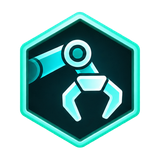
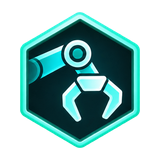
Add badges for line follower and motor
Two more badge originals from the maintainer (made with ChatGPT). The
asset script now crops each badge to its motif and centres it at 85 % of
the height, so badges delivered at different sizes look the same. Record
the badge changes made on the server for the demo data.

diff --git a/design/generate_assets.py b/design/generate_assets.py
@@ -13,6 +13,9 @@ Writes into core/static/core/brand/ (committed, collected into the image):
 
 and badge images from design/badges/ into badges/static/badges/img/
 (offered in the badge admin): PNGs resized to BADGE_SIZE px, SVGs cleaned.
+PNG badges are normalised first: the visible motif is cropped and centred
+so that it fills BADGE_FILL of the height, so badges delivered at different
+sizes or margins look the same size next to each other.
 The web name is the original's name without a leading number, in lower
 case with hyphens, e.g. "01_Erste_LED.png" -> "erste-led.png".
 
@@ -34,6 +37,10 @@ BADGE_SOURCE = ROOT / "design" / "badges"
 BADGE_TARGET = ROOT / "badges" / "static" / "badges" / "img"
 # Badges are shown at 40-48 px; 160 px stays sharp on 3x screens.
 BADGE_SIZE = 160
+# Share of the height the visible motif fills (as in the first badge set).
+BADGE_FILL = 0.85
+# Alpha above which a pixel counts as part of the motif (ignores faint glow).
+BADGE_ALPHA_THRESHOLD = 20
 
 SVG_NS = "http://www.w3.org/2000/svg"
 EDITOR_NAMESPACES = (
@@ -87,6 +94,27 @@ def badge_web_name(source):
     return f"{stem}{source.suffix.lower()}"
 
 
+def normalised_badge(source, size):
+    """Crop to the visible motif, centre it at BADGE_FILL, resize to size."""
+    with Image.open(source) as image:
+        image = image.convert("RGBA")
+    mask = image.getchannel("A").point(
+        lambda value: 255 if value > BADGE_ALPHA_THRESHOLD else 0
+    )
+    box = mask.getbbox()
+    if box is None:
+        raise ValueError(f"{source.name}: image is fully transparent")
+    motif = image.crop(box)
+    scale = BADGE_FILL * size / max(motif.width, motif.height)
+    motif = motif.resize(
+        (max(1, round(motif.width * scale)), max(1, round(motif.height * scale))),
+        Image.Resampling.LANCZOS,
+    )
+    canvas = Image.new("RGBA", (size, size))
+    canvas.paste(motif, ((size - motif.width) // 2, (size - motif.height) // 2))
+    return canvas
+
+
 def badge_images():
     """Write the web versions of the badge originals."""
     BADGE_TARGET.mkdir(parents=True, exist_ok=True)
@@ -96,7 +124,8 @@ def badge_images():
         if suffix == ".svg":
             clean_svg(source, target)
         elif suffix in {".png", ".webp"}:
-            resize_icon(source, target, BADGE_SIZE)
+            image = normalised_badge(source, BADGE_SIZE)
+            image.save(target, format="PNG", optimize=True)
         else:
             continue
         print(f"wrote {target}")

diff --git a/design/badges/PROMPT.md b/design/badges/PROMPT.md
@@ -1,8 +1,9 @@
 # How the badge images were made
 
-The six badge images in this folder were created by the maintainer
+The badge images in this folder were created by the maintainer
 (kreuzlin) with **ChatGPT** (image generation) and delivered on
-2026-11-21. Claude Code did not draw or edit them (brief, section 11); it
+2026-11-21: six in a first set, two more (07, 08) the same day for tasks
+that had no matching badge. Claude Code did not draw or edit them (brief, section 11); it
 only wrote the prompt below and generates the web versions with
 `design/generate_assets.py`.
 
@@ -14,12 +15,31 @@ only wrote the prompt below and generates the web versions with
 | `04_Sensor_Profi.png` | Sensor-Profi | `sensor-profi.png` |
 | `05_Konstrukteur.png` | Konstrukteur/in | `konstrukteur.png` |
 | `06_Durchhalter.png` | Durchhalter/in | `durchhalter.png` |
+| `07_Linienfolger.png` | Linienfolger | `linienfolger.png` |
+| `08_Motor.png` | Motor | `motor.png` |
 
-All originals: 1024 × 1024 px, PNG with a transparent background, no
-metadata. Checked at 40 px on the site's dark background (#020d16): every
-symbol stays recognisable.
+All originals: PNG with a transparent background, no metadata; 01–06 at
+1024 × 1024 px, 07–08 at 1254 × 1254 px with a larger motif.
+`design/generate_assets.py` crops every badge to its visible motif and
+centres it at the same size (85 % of the height), so all badges look
+equally large; the originals stay untouched. Checked at 40 and 48 px on
+the site's dark background (#020d16): every symbol stays recognisable.
 
-## Prompt
+## Prompt for badges 07 and 08
+
+Written by Claude Code on 2026-11-21 for the same ChatGPT conversation
+(so ChatGPT already knew the style):
+
+```text
+Bitte erstelle zwei weitere Badges für das gleiche Set, im exakt gleichen Stil wie die bisherigen sechs: gleiche Sechseck-Grundform, gleiche Strichstärke, gleiche Leuchtwirkung, gleiche Mint- und Petrol-Farben. Wieder 1024 × 1024 px, PNG mit echtem transparentem Hintergrund, kein Text im Bild, ein einziges gut erkennbares Symbol, das auch bei 40 × 40 px noch erkennbar ist.
+
+7. Linienfolger – ein kleiner Roboter auf Rädern, der einer geschwungenen dunklen Linie auf dem Boden folgt (die Linie gut sichtbar, z. B. mit hellem Rand)
+8. Motor – ein Elektromotor mit Welle und angedeuteter Drehbewegung (gebogener Pfeil)
+
+Liefere jedes Badge als einzelnes PNG.
+```
+
+## Prompt for badges 01–06
 
 Claude Code suggested this prompt (in German, as given to ChatGPT) on
 2026-11-21. The maintainer used it to create the set; ChatGPT was asked to

diff --git a/design/README.md b/design/README.md
@@ -19,8 +19,8 @@ Writes `core/static/core/brand/`:
 | `favicon-32.png` | `logo/CHECKERMINT_Icon_512.png` | PNG favicon fallback |
 | `apple-touch-icon.png` | `logo/CHECKERMINT_Icon_512.png` | iOS home screen (180 px) |
 
-and `badges/static/badges/img/` from `badges/` (PNGs resized to 160 px,
-SVGs cleaned; web name without the leading number, lower case with
+and `badges/static/badges/img/` from `badges/` (PNGs cropped to the motif,
+centred at 85 % of the height and resized to 160 px, SVGs cleaned; web name without the leading number, lower case with
 hyphens, e.g. `01_Erste_LED.png` → `erste-led.png`). The badge admin offers
 every file in that folder.
 
@@ -32,7 +32,7 @@ font files are needed (no external requests). Commit the generated files.
 
 | File(s) | Source / author | Rights |
 |---|---|---|
-| `badges/*.png` (six badges: Erste LED, Code-Starter, Greifarm, Sensor-Profi, Konstrukteur/in, Durchhalter/in) | Delivered by the maintainer (kreuzlin) on 2026-11-21. Created by the maintainer with ChatGPT (image generation) from the prompt in [`badges/PROMPT.md`](badges/PROMPT.md) | Released by the maintainer for Checkermint; AI-made artwork allowed (maintainer's decision 2026-11-19, brief section 11) |
+| `badges/*.png` (eight badges: Erste LED, Code-Starter, Greifarm, Sensor-Profi, Konstrukteur/in, Durchhalter/in, Linienfolger, Motor) | Delivered by the maintainer (kreuzlin) on 2026-11-21. Created by the maintainer with ChatGPT (image generation) from the prompts in [`badges/PROMPT.md`](badges/PROMPT.md) | Released by the maintainer for Checkermint; AI-made artwork allowed (maintainer's decision 2026-11-19, brief section 11) |
 | `logo/CHECKERMINT_*` (logo package: header, portrait logo dark/light/transparent, icon) | Delivered by the maintainer (kreuzlin) on 2026-11-19. Created by the maintainer with an AI image tool, then vectorised (see `logo/CHECKERMINT_README.txt`, which came with the package) | Released by the maintainer for Checkermint; the maintainer decided on 2026-11-19 that artwork made with AI tools may be used (brief, section 11) |
 
 Not in the repository: the RoboChallenge 2027 flyer that the maintainer gave

diff --git a/docs/STATUS.md b/docs/STATUS.md
@@ -7,7 +7,7 @@ live in the linked docs; open work lives in GitHub issues.
 Requirements and scope of version 1:
 [`PROJECT_BRIEF.md`](PROJECT_BRIEF.md) (milestones in section 10).
 
-_Last updated: 2026-11-21 (PR "Record badges created on the server")_
+_Last updated: 2026-11-21 (PR "Add badges for line follower and motor")_
 
 ## Live
 
@@ -379,6 +379,21 @@ Runbook: [`deployment.md`](deployment.md). Architecture:
   attached to any task yet – there are only demo tasks so far. Real
   content, not demo data: `seed_demo --remove` does not touch them.
   Descriptions can be changed in the admin.
+- 2026-11-21, on the maintainer's request (to see the look and feel), on
+  the server: badges attached to the demo tasks (Blinklicht → Code-Starter,
+  Sensor auslesen → Sensor-Profi, LED-Schaltung → Erste LED, Greifarm →
+  Greifarm, Gehäuse → Konstrukteur/in; Linienfolger → Linienfolger and
+  Motor ansteuern → Motor after this PR). The two image-less demo badges
+  were revoked and deleted. For approved demo submissions the awards were
+  given afterwards with `award_for` (same rule as a review, dated with the
+  review) – normally badges are not retroactive. Tested locally that
+  `seed_demo --remove` then still removes all demo tasks and awards and
+  keeps the real badges. The attachments go with the demo tasks.
+- Two more badges from the maintainer (Linienfolger, Motor, made with
+  ChatGPT from a follow-up prompt in `design/badges/PROMPT.md`).
+  `design/generate_assets.py` now crops each badge to its motif and centres
+  it at 85 % of the height, because the new originals were larger with less
+  margin; all eight web versions are regenerated and look the same size.
 
 ## Open issues
 
